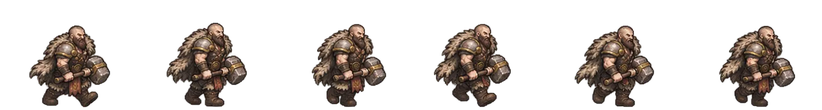
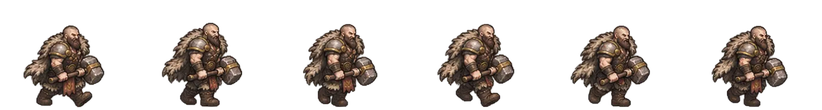
v0.6 : HUD en pièces d'interface, animation de Hrolf stabilisée
Cadre du héros, orbes PV/Rage, barre et cases, jauges, bannières,
panneaux et boutons tirés des planches d'interface (img/ui). Repos de
Hrolf sur une image fixe qui respire, marche calée sur la tête.

Claude-Session: https://claude.ai/code/session_01Qu7CnqzYV5d2juEQXEXr3W

diff --git a/index.html b/index.html
@@ -14,51 +14,52 @@
 html,body{margin:0;height:100%;background:#000;color:var(--ink);font:16px system-ui,sans-serif;overflow:hidden;user-select:none}
 canvas#c{position:fixed;inset:0;width:100%;height:100%;display:block;cursor:pointer}
 .k{font-family:'Killam',Georgia,serif;font-weight:700}
-.panel{background:color-mix(in srgb,var(--panel) 92%,transparent);border:1px solid var(--line-strong);border-radius:12px}
-.sec{font:600 12px system-ui;letter-spacing:2.5px;text-transform:uppercase;color:var(--muted)}
-/* Cadre du héros : portrait cerclé de ses PV, nom, classe, VIE, caracs, états */
-#frame{position:fixed;left:12px;top:12px;display:flex;gap:12px;padding:10px 14px 10px 10px;align-items:center}
-#pwrap{position:relative;width:86px;height:86px;flex:none;border-radius:50%;padding:5px;background:conic-gradient(#c0392b var(--pv,100%),#2a1512 0)}
-#pwrap::after{content:'';position:absolute;inset:0;border-radius:50%;box-shadow:inset 0 0 0 2px #0009,0 0 0 2px var(--mait)}
-#portrait{width:76px;height:76px;border-radius:50%;background:radial-gradient(#2b3a3e,#10171a);display:block}
-#pvtxt{position:absolute;left:50%;bottom:-8px;transform:translateX(-50%);font:800 11px system-ui;background:#2a1512;border:1px solid #c0392b;border-radius:8px;padding:0 6px;white-space:nowrap}
-#fname{font-size:22px;line-height:1}
-.cart{display:inline-block;font:700 10px system-ui;letter-spacing:2px;text-transform:uppercase;padding:2px 8px;border-radius:10px;background:#b0452e;color:#fff;margin:4px 0 6px}
-.pills{display:flex;gap:5px;flex-wrap:wrap;align-items:center}
-.pills+.pills{margin-top:5px}.pills:empty{display:none}
-.carac{display:inline-flex;flex-direction:column;align-items:center;min-width:38px;padding:2px 5px;border-radius:7px;background:var(--panel-2);border:1px solid var(--line)}
-.carac small{font:600 9px system-ui;letter-spacing:1.5px;color:var(--muted)}.carac b{font:700 16px 'Killam',Georgia,serif;line-height:1.1}
-.pill{display:inline-flex;align-items:center;gap:3px;font:700 12px system-ui;padding:1px 7px;border-radius:9px;background:var(--btn);border:1px solid var(--line)}
+.panel{border:18px solid transparent;border-image:url(img/ui/panneau.webp) 46 fill / 18px stretch;background:none}
+:root{--or:#f1d7a1}
+.sec{font:600 12px system-ui;letter-spacing:2.5px;text-transform:uppercase;color:var(--or)}
+.sec::after{content:'';display:block;height:9px;margin:2px 0 4px;background:url(img/ui/separateur.webp) center/auto 100% no-repeat}
+/* Cadre du héros : pièce « cadre_heros » (rond + plaque), caracs dessous */
+#frame{position:fixed;left:10px;top:8px;width:390px;height:133px;background:url(img/ui/cadre_heros.webp) 0 0/100% 100% no-repeat}
+#portrait{position:absolute;left:10px;top:20px;width:108px;height:108px;border-radius:50%}
+#fplaque{position:absolute;left:142px;top:26px;right:22px;bottom:20px;display:flex;flex-direction:column;justify-content:center;gap:2px}
+#fname{font-size:22px;line-height:1;color:var(--or);text-shadow:0 2px 3px #000}
+.cart{align-self:flex-start;font:700 10px/26px system-ui;letter-spacing:2px;text-transform:uppercase;padding:0 22px;height:28px;color:#fff;text-shadow:0 1px 2px #000;background:url(img/ui/banniere.webp) center/100% 100% no-repeat}
+#fvie{display:flex;gap:3px}#fvie img{width:18px;height:18px}
+#fsous{position:fixed;left:16px;top:144px}
+.pills{display:flex;gap:6px;flex-wrap:wrap;align-items:center}.pills+.pills{margin-top:6px}.pills:empty{display:none}
+.carac{position:relative;width:68px;height:51px;background:0 0/100% 100% no-repeat}
+.carac b{position:absolute;right:11px;bottom:7px;font:700 19px 'Killam',Georgia,serif;color:var(--or);text-shadow:0 2px 2px #000}
+.pill{display:inline-flex;align-items:center;gap:3px;font:700 12px system-ui;padding:2px 8px;border-radius:9px;background:#120d0acc;border:1px solid var(--line)}
 .pill img{width:16px;height:16px}
-.etat{border-color:var(--t);color:var(--t);background:color-mix(in srgb,var(--t) 15%,var(--panel))}
-.vie{width:15px;height:15px;opacity:.2;filter:grayscale(1)}.vie.on{opacity:1;filter:none}
-.bar{position:relative;height:16px;border-radius:8px;background:var(--track);border:1px solid var(--line);overflow:hidden;width:220px}
-.bar>i{position:absolute;inset:0 auto 0 0;background:linear-gradient(#d4735a,#a4442f);transition:width .2s}
-.bar>span{position:absolute;inset:0;text-align:center;font:700 11px/15px system-ui;text-shadow:0 1px 2px #000}
-/* Barre d'action : orbe de PV, cases, orbe de Rage */
-#bar{position:fixed;left:50%;bottom:10px;transform:translateX(-50%);display:flex;align-items:flex-end;gap:14px;padding:8px 12px;border-radius:16px}
-.orbe{position:relative;width:88px;height:88px;border-radius:50%;overflow:hidden;background:radial-gradient(circle at 50% 60%,#1a1210,#070505);box-shadow:0 0 0 3px #3a2c20,0 0 0 5px var(--mait),0 4px 12px #000a}
-.orbe>i{position:absolute;left:0;right:0;bottom:0;height:var(--f,100%);background:var(--g);transition:height .25s}
-.orbe::after{content:'';position:absolute;left:18%;top:8%;width:46%;height:28%;border-radius:50%;background:radial-gradient(#ffffff55,transparent 70%)}
-.orbe span{position:absolute;inset:0;display:grid;place-items:center;font:700 20px 'Killam',Georgia,serif;text-shadow:0 2px 3px #000,0 0 2px #000;z-index:1}
-.orbe small{position:absolute;left:0;right:0;bottom:12px;text-align:center;font:700 9px system-ui;letter-spacing:2px;text-transform:uppercase;z-index:1;text-shadow:0 1px 2px #000}
-#oPV{--g:linear-gradient(#e0533f,#7a1a12)}#oRage{--g:linear-gradient(#f08a3a,#8a2e10)}
-#centre{display:flex;flex-direction:column;align-items:center;gap:6px}
-#ronds{display:flex;gap:6px;align-items:flex-end}
-.sep{width:2px;height:44px;background:var(--line);margin:0 4px;align-self:center}
-.slot{position:relative;width:58px;height:58px;border-radius:8px;cursor:pointer;background:linear-gradient(#1b2629,#0d1417);border:2px solid color-mix(in srgb,var(--t) 70%,#000);box-shadow:inset 0 0 10px #000,0 2px 6px #000a;display:grid;place-items:center}
-.slot:hover{border-color:var(--t);box-shadow:inset 0 0 10px #000,0 0 10px color-mix(in srgb,var(--t) 60%,transparent)}
-.slot img{width:44px;height:44px;object-fit:contain;filter:drop-shadow(0 2px 2px #000)}
-.slot .h{position:absolute;top:2px;left:4px;font:800 11px system-ui;color:var(--ink);text-shadow:0 1px 2px #000}
-.slot .q{position:absolute;bottom:1px;right:4px;font:800 13px system-ui;text-shadow:0 1px 2px #000,0 0 2px #000}
-.slot .cd{position:absolute;inset:0;border-radius:6px;background:conic-gradient(#000c var(--p,0%),transparent 0)}
-.slot .s{position:absolute;inset:0;display:grid;place-items:center;font:800 16px system-ui;text-shadow:0 1px 3px #000}
-.slot.off img{filter:grayscale(1) brightness(.5)}.slot.off{cursor:default}
+.etat{border-color:var(--t);color:var(--t)}
+/* Barre d'action : orbes (cadre + verre vide + verre plein rogné), plaque, cases */
+#bar{position:fixed;left:50%;bottom:6px;transform:translateX(-50%);display:flex;align-items:flex-end}
+.orbe{position:relative;width:124px;height:130px;flex:none;z-index:1}
+.orbe>i{position:absolute;left:11.9%;top:12.9%;width:75%;height:71%;background:var(--o) 0 0/100% 100%}
+.orbe>i.v{background-image:url(img/ui/orbe_vide.webp)}
+.orbe>i.p{clip-path:inset(calc(100% - var(--f,100%)) 0 0 0);transition:clip-path .25s}
+.orbe::after{content:'';position:absolute;inset:0;background:url(img/ui/orbe_cadre.webp) 0 0/100% 100%}
+.orbe span{position:absolute;left:0;right:0;top:12.9%;height:71%;display:grid;place-items:center;font:700 24px 'Killam',Georgia,serif;text-shadow:0 2px 3px #000,0 0 3px #000;z-index:2}
+.orbe small{position:absolute;left:0;right:0;bottom:6%;text-align:center;font:800 9px system-ui;letter-spacing:2px;text-transform:uppercase;color:var(--or);z-index:2}
+#centre{position:relative;margin:0 -22px 10px;padding:16px 42px 12px;display:flex;flex-direction:column;align-items:center;gap:4px;background:url(img/ui/barre_fond.webp) 0 0/100% 100% no-repeat}
+#ronds{display:flex;gap:4px;align-items:center}
+.sep{width:14px}
+.slot{position:relative;width:62px;height:62px;cursor:pointer;display:grid;place-items:center}
+.slot::before{content:'';position:absolute;inset:11%;border-radius:4px;background:radial-gradient(#2a201a,#0b0807)}
+.slot::after{content:'';position:absolute;inset:0;background:url(img/ui/case_bronze.webp) 0 0/100% 100%;pointer-events:none}
+.slot.fer::after{background-image:url(img/ui/case_fer.webp)}
+.slot:hover::after,.slot.flash::after{background-image:url(img/ui/case_or.webp)}
+.slot img{position:relative;width:40px;height:40px;object-fit:contain;filter:drop-shadow(0 2px 2px #000)}
+.slot .h{position:absolute;top:-5px;left:-5px;width:22px;height:22px;display:grid;place-items:center;font:800 11px system-ui;color:var(--or);background:url(img/ui/touche.webp) 0 0/100% 100%;z-index:2}
+.slot .q{position:absolute;bottom:6px;right:8px;font:800 13px system-ui;text-shadow:0 1px 2px #000,0 0 2px #000;z-index:2}
+.slot .cd{position:absolute;inset:11%;border-radius:4px;background:conic-gradient(#000c var(--p,0%),transparent 0);z-index:1}
+.slot .s{position:absolute;inset:0;display:grid;place-items:center;font:800 17px system-ui;text-shadow:0 1px 3px #000;z-index:1}
+.slot.off img{filter:grayscale(1) brightness(.45)}.slot.off{cursor:default}
 .slot.flash{animation:eclat .5s}
-@keyframes eclat{40%{transform:scale(1.12);box-shadow:0 0 18px var(--t)}}
-#xp{position:relative;width:100%;min-width:330px;height:12px;border-radius:6px;background:var(--track);border:1px solid var(--line);overflow:hidden}
-#xp>i{display:block;height:100%;background:linear-gradient(90deg,var(--mait),#e2ae72);width:0;transition:width .3s}
-#xpt{position:absolute;inset:0;text-align:center;font:700 9px/11px system-ui;letter-spacing:1px;text-shadow:0 1px 2px #000}
+@keyframes eclat{40%{transform:scale(1.1)}}
+#xp{width:330px;height:26px}
+#xpt{font:800 10px system-ui!important;letter-spacing:1px}
+#bTal .or{width:16px;height:16px;vertical-align:-3px;margin-left:4px}
 /* Ronds de talent (fenêtre des talents) */
 .rond{position:relative;width:62px;text-align:center;cursor:pointer}
 .rond .o{position:relative;width:56px;height:56px;margin:auto;border-radius:12px;border:4px solid var(--t);background:color-mix(in srgb,var(--t) 22%,#e9e3d5);display:grid;place-items:center;overflow:hidden;box-shadow:0 2px 6px #0008}
@@ -66,9 +67,9 @@ canvas#c{position:fixed;inset:0;width:100%;height:100%;display:block;cursor:poin
 .rond .o b{font-size:24px;color:var(--t)}
 .rond .n{font:600 11px system-ui;margin-top:3px;color:var(--ink);white-space:nowrap}
 /* Boutons */
-.btn{font:600 14px system-ui;background:var(--btn);color:var(--ink);border:1px solid var(--line-strong);border-radius:8px;padding:6px 12px;cursor:pointer}
-.btn:hover{background:var(--hover)}.btn.on{border-color:var(--accent);color:var(--accent)}
-.btn.main{background:var(--accent);color:var(--on-accent);border-color:var(--accent)}
+.btn{font:600 14px system-ui;color:var(--or);background:none;border:10px solid transparent;border-image:url(img/ui/bouton.webp) 36 fill / 10px stretch;padding:0 6px;min-height:36px;cursor:pointer;text-shadow:0 1px 2px #000}
+.btn:hover{border-image-source:url(img/ui/bouton2.webp);color:#fff}.btn.on{border-image-source:url(img/ui/bouton3.webp);color:#ffd77a}
+.btn.main{border-image-source:url(img/ui/bouton3.webp);color:#ffd77a}
 .btn.pulse{animation:pulse 1.2s infinite}@keyframes pulse{50%{box-shadow:0 0 12px var(--mait)}}
 #top{position:fixed;right:12px;top:12px;display:flex;gap:6px}
 /* Journal */
@@ -78,12 +79,17 @@ canvas#c{position:fixed;inset:0;width:100%;height:100%;display:block;cursor:poin
 .de.dark{color:#f4f6f2}.de.x{opacity:.3;text-decoration:line-through}.de.b{opacity:.45}.de.p{outline:1px solid #ffd34a}
 .hro{color:var(--green);font-weight:700}.adv{color:#e2565f;font-weight:700}
 /* Bulle (infobulle d'adversaire / de talent) */
-#tip{position:fixed;pointer-events:none;max-width:280px;padding:8px 10px;font-size:13px;display:none;z-index:9}
+#tip{position:fixed;pointer-events:none;max-width:300px;padding:2px 4px;font-size:13px;display:none;z-index:9}
 #tip h4{margin:0 0 4px;font:700 16px 'Killam',Georgia,serif;color:var(--t,var(--ink))}
 #tip p{margin:3px 0}
 /* Barre de boss */
-#boss{position:fixed;top:14px;left:50%;transform:translateX(-50%);width:420px;text-align:center;display:none}
-#boss .bar{width:100%;height:14px}
+#boss{position:fixed;top:10px;left:50%;transform:translateX(-50%);width:440px;text-align:center;display:none}
+#bossn{height:40px;line-height:34px;background:url(img/ui/banniere.webp) center/100% 100% no-repeat;font-size:16px;color:#fff;text-shadow:0 1px 3px #000}
+.jauge{position:relative;height:36px;background:url(img/ui/jauge_cadre.webp) 0 0/100% 100%}
+.jauge::before,.jauge>i{content:'';position:absolute;left:11.3%;top:25.6%;height:46.4%;width:77.4%;background:url(img/ui/jauge_fond.webp) 0 0/100% 100%}
+.jauge>i{width:calc(77.4% * var(--f,1));background-image:url(img/ui/jauge_rouge.webp);transition:width .25s}
+.jauge.or>i{background-image:url(img/ui/jauge_or.webp)}
+.jauge>span{position:absolute;inset:0;display:grid;place-items:center;font:800 11px system-ui;text-shadow:0 1px 2px #000,0 0 2px #000}
 /* Fenêtres */
 .dlg{position:fixed;inset:0;background:#0008;display:none;place-items:center;z-index:10}
 .dlg.on{display:grid}
@@ -103,36 +109,32 @@ canvas#c{position:fixed;inset:0;width:100%;height:100%;display:block;cursor:poin
 #edit .row,.reg{display:flex;gap:6px;flex-wrap:wrap;margin:6px 0;align-items:center}
 .reg{font:600 12px system-ui;color:var(--muted);justify-content:space-between}.reg input{width:100%}
 #edMsg{font-size:12px;color:var(--accent);min-height:1em;margin:4px 0}
-body.edition #bar,body.edition #frame,body.edition #journal{display:none}
+body.edition #bar,body.edition #frame,body.edition #fsous,body.edition #journal{display:none}
 #mj .row{display:flex;gap:6px;flex-wrap:wrap;margin:6px 0}
 #fin{z-index:11}
 #fin .win{text-align:center;width:420px}
-@media (max-width:900px){.orbe{width:64px;height:64px}.slot{width:46px;height:46px}.slot img{width:34px;height:34px}#xp{min-width:200px}#pwrap{width:64px;height:64px}#portrait{width:54px;height:54px}}
+@media (max-width:900px){#bar{transform:translateX(-50%) scale(.72);transform-origin:bottom center}#frame,#fsous{transform:scale(.75);transform-origin:top left}#fsous{top:110px}}
 @media (prefers-reduced-motion:reduce){.slot.flash,.btn.pulse{animation:none}}
 </style>
 </head>
 <body>
 <canvas id="c"></canvas>
-<div id="frame" class="panel">
- <div id="pwrap"><canvas id="portrait" width="152" height="152"></canvas><span id="pvtxt"></span></div>
- <div>
-  <div id="fname" class="k">Hrolf</div>
-  <div class="cart" id="fcart">Destructeur · palier I</div>
-  <div class="pills" id="fstats"></div>
-  <div class="pills" id="fetats"></div>
- </div>
+<div id="frame">
+ <canvas id="portrait" width="216" height="216"></canvas>
+ <div id="fplaque"><div id="fname" class="k">Hrolf</div><div class="cart" id="fcart">Destructeur · palier I</div><div id="fvie"></div></div>
 </div>
-<div id="boss" class="panel" style="padding:6px 10px"><div class="k" id="bossn"></div><div class="bar"><i></i><span></span></div></div>
+<div id="fsous"><div class="pills" id="fstats"></div><div class="pills" id="fetats"></div></div>
+<div id="boss"><div class="k" id="bossn"></div><div class="jauge"><i></i><span></span></div></div>
 <div id="top">
  <button class="btn" id="bTal">Talents (T)</button>
  <button class="btn" id="bMJ">MJ (M)</button>
  <button class="btn" id="bPause">Pause (Espace)</button>
 </div>
 <div id="journal" class="panel"></div>
-<div id="bar" class="panel">
- <div class="orbe" id="oPV"><i></i><span></span><small>PV</small></div>
- <div id="centre"><div id="ronds"></div><div id="xp"><i></i><span id="xpt"></span></div></div>
- <div class="orbe" id="oRage"><i></i><span></span><small>Rage</small></div>
+<div id="bar">
+ <div class="orbe" id="oPV" style="--o:url(img/ui/orbe_pv.webp)"><i class="v"></i><i class="p"></i><span></span><small>PV</small></div>
+ <div id="centre"><div id="ronds"></div><div id="xp" class="jauge or"><i></i><span id="xpt"></span></div></div>
+ <div class="orbe" id="oRage" style="--o:url(img/ui/orbe_rage.webp)"><i class="v"></i><i class="p"></i><span></span><small>Rage</small></div>
 </div>
 <div id="mj" class="panel">
  <div class="sec">Meneur de jeu</div>
@@ -158,7 +160,7 @@ body.edition #bar,body.edition #frame,body.edition #journal{display:none}
 <div class="dlg" id="fin"><div class="win panel"><h2 style="justify-content:center" id="finT"></h2><p id="finP"></p><button class="btn main" id="bRe">Recommencer</button></div></div>
 <script>
 'use strict';
-const VERSION='0.5';
+const VERSION='0.6';
 document.title='Amertüme ISO v'+VERSION;
 
 /* ================= Règles d'Amertüme (moteur d'Amertüme Online, adapté au temps réel) =================
@@ -270,6 +272,7 @@ function ligneLibre(x0,y0,x1,y1){const n=Math.ceil(Math.hypot(x1-x0,y1-y0)/8);fo
 const IMG={},img=s=>{if(!IMG[s]){const i=new Image();i.src=s;IMG[s]=i}return IMG[s]},ok=i=>i&&i.complete&&i.naturalWidth;
 // Hrolf : planche 6 × 7 découpée en bandes de 6 images ; découpée par tools/decoupe_hrolf.py : images alignées sur les pieds, toutes tournées vers la droite.
 const HANIM={n:6,pieds:.968,poses:['idle','walk','atk','furie','cri','sol','mort']};
+['ellipse_sol','fine_cadre_fer','fine_rouge'].forEach(n=>img('img/ui/'+n+'.webp'));
 img(CARTE.fond);for(const p of HANIM.poses)img('img/u/hrolf_'+p+'.webp');
 for(const s in ANIM)for(const p of ANIM[s].poses)img('img/m/'+s+'_'+p+'.webp');
 for(const s of Object.keys(MS).filter(s=>!ANIM[s]))for(const p of ['w1','w2','atk','dead']){img('img/m/'+s+'_'+p+'.webp');if(p!=='dead')img('img/m/'+s+'_'+p+'_rim.webp')}
@@ -367,7 +370,7 @@ function step(dt){S.t+=dt;
  if(!hero.coma&&hero.auSol<=0){
   if(hero.cible&&hero.cible.pv<=0)hero.cible=null;
   if(hero.cible){if(contact(hero,hero.cible))hero.path=[];else if(!hero.path.length||S.t>(hero.repath||0)){hero.path=chemin(hero.x,hero.y,hero.cible.x,hero.cible.y);hero.repath=S.t+.3}}
-  if(hero.path.length){const p=hero.path[0],dx=p.x-hero.x,dy=p.y-hero.y,d=Math.hypot(dx,dy),sp=78*dt;
+  if(hero.path.length){const p=hero.path[0],dx=p.x-hero.x,dy=p.y-hero.y,d=Math.hypot(dx,dy),sp=64*dt;
    if(Math.abs(dx)>1)hero.face=dx>0?1:-1;if(d<=sp){hero.x=p.x;hero.y=p.y;hero.path.shift()}else{hero.x+=dx/d*sp;hero.y+=dy/d*sp}hero.walk+=Math.min(d,sp)}
   else{hero.walk=0;if(S.t>=hero.prochain){const c=hero.cible&&contact(hero,hero.cible)?hero.cible:null;if(c||vivants().some(m=>contact(hero,m)&&m.aggro))attaqueHeros(c)}}}
  // Adversaires
@@ -419,21 +422,22 @@ function spark(x,y,c,n){for(let k=0;k<n;k++){const a=Math.random()*6.28,s=60+Mat
 function ombre(x,y,rx,ry,a){g.save();g.translate(x,y);g.scale(1,ry/rx);const gr=g.createRadialGradient(0,0,0,0,0,rx);gr.addColorStop(0,`rgba(0,0,0,${a})`);gr.addColorStop(1,'rgba(0,0,0,0)');g.fillStyle=gr;g.beginPath();g.arc(0,0,rx,0,7);g.fill();g.restore()}
 function anneau(x,y,rx,c,w){g.strokeStyle=c;g.lineWidth=w||2;g.beginPath();g.ellipse(x,y,rx,rx*.45,0,0,7);g.stroke()}
 function anime(pose,dur){hero.anim={pose,t:S.t,dur}}
-function drawHero(t){const u=hero;ombre(u.x,u.y+1,13,5,.45);anneau(u.x,u.y,15,`rgba(255,210,122,${.55+Math.sin(t*3)*.25})`);
+function drawHero(t){const u=hero;ombre(u.x,u.y+1,13,5,.45);const el=IMG['img/ui/ellipse_sol.webp'];if(ok(el)){g.globalAlpha=.75+Math.sin(t*3)*.2;g.drawImage(el,u.x-17,u.y-7,34,14.4);g.globalAlpha=1}
  if(u.etats.Rage)anneau(u.x,u.y,19,'rgba(212,85,42,.75)',1.5+Math.min(4,u.etats.Rage*.3));
  // Une animation jouée (attaque, Frappe Furieuse, Cri, au sol, mort) passe avant la marche et le repos ; la mort et le Coma restent couchés.
- const a=u.anim,k=a?(S.t-a.t)/a.dur:1;let pose,f;
+ const a=u.anim,k=a?(S.t-a.t)/a.dur:1;let pose,f,souffle=1;
  if(u.mort){pose='mort';f=Math.floor(Math.min(.99,k)*6)}else if(u.coma){pose='sol';f=3}
- else if(a&&k<1){pose=a.pose;f=Math.floor(k*6)}else if(u.walk>0){pose='walk';f=Math.floor(u.walk/6.5)%6}else{pose='idle';f=Math.floor(t*6)%6}
+ else if(a&&k<1){pose=a.pose;f=Math.floor(k*6)}else if(u.walk>0){pose='walk';f=Math.floor(u.walk/4.8)%6}else{pose='idle';f=0;souffle=1+Math.sin(t*2.4)*.012}
  const im=IMG['img/u/hrolf_'+pose+'.webp'];if(!ok(im))return;const fw=im.naturalWidth/6,fh=im.naturalHeight,w=fw/2,h=fh/2;
- g.save();g.translate(u.x,u.y);g.scale(u.face,1);if(u.coma&&!u.mort)g.filter='grayscale(.6) brightness(.8)';g.drawImage(im,f*fw,0,fw,fh,-w/2,-h*HANIM.pieds,w,h);g.restore()}
+ g.save();g.translate(u.x,u.y);g.scale(u.face,souffle);if(u.coma&&!u.mort)g.filter='grayscale(.6) brightness(.8)';g.drawImage(im,f*fw,0,fw,fh,-w/2,-h*HANIM.pieds,w,h);g.restore()}
 function drawMon(m,t,hov){const sp=m.d.spr,pose=m.atk>0?'atk':m.walk>0&&Math.floor(m.walk/2.4)%2?'w2':'w1',rim=IMG['img/m/'+sp+'_'+pose+'_rim.webp'],im0=IMG['img/m/'+sp+'_'+pose+'.webp'],useR=ok(rim),im=useR?rim:im0;
  ombre(m.x,m.y+1,m.w*.34+3,m.w*.11+2.5,.45);if(hov||m===hero.cible)anneau(m.x,m.y,m.w*.42+6,'#e2565f',2);else if(m.d.boss)anneau(m.x,m.y,m.w*.42+6,'rgba(226,86,95,.45)',2);
  if(ANIM[sp])return drawAnim(m,t,hov);
  if(!ok(im))return;const pd=useR?2:0,w=im.naturalWidth/2-pd*2,h=im.naturalHeight/2-pd*2,iw=MS[sp][0],bob=pose==='atk'?0:Math.abs(Math.sin(m.walk*1.3))*m.h*.03;
  g.save();g.translate(m.x,m.y);g.scale(m.face,1);if(m.etats.Feu)g.filter='sepia(.8) saturate(2.6) brightness(1.1)';else if(hov)g.filter='brightness(1.25)';
  g.drawImage(im,(pose==='atk'?-iw/2:-w/2)-pd,-h+2-bob-pd,w+pd*2,h+pd*2);g.restore();barreVie(m,hov)}
-function barreVie(m,hov){if(m.pv<m.d.pv||hov||m.aggro){const bw=Math.max(26,m.w*.6),y=m.y-m.h-8;g.fillStyle='#000a';g.fillRect(m.x-bw/2-1,y-1,bw+2,5);g.fillStyle='#c0392b';g.fillRect(m.x-bw/2,y,bw*Math.max(0,m.pv/m.d.pv),3);
+function barreVie(m,hov){if(m.pv<m.d.pv||hov||m.aggro){const bw=Math.max(30,m.w*.65),bh=bw*48/221,y=m.y-m.h-8,cf=IMG['img/ui/fine_cadre_fer.webp'],fr=IMG['img/ui/fine_rouge.webp'];
+  if(ok(cf)&&ok(fr)){const x0=m.x-bw/2;g.fillStyle='#000c';g.fillRect(x0+bw*.068,y-bh/2+bh*.31,bw*.86,bh*.36);g.drawImage(fr,x0+bw*.068,y-bh/2+bh*.31,bw*.86*Math.max(0,m.pv/m.d.pv),bh*.36);g.drawImage(cf,x0,y-bh/2,bw,bh)}
   let ex=m.x-bw/2;for(const [e,n] of Object.entries(m.etats)){if(!n)continue;const ic=ETAT_IC[e]?img(ETAT_IC[e]):null;if(ok(ic))g.drawImage(ic,ex,y-12,10,10);ex+=11}}}
 function frameAnim(sp,pose,f,x,y,face,filt,rot){const A=ANIM[sp],im=IMG['img/m/'+sp+'_'+pose+'.webp'];if(!ok(im))return;const fw=im.naturalWidth/A.n,fh=im.naturalHeight,w=fw/2,h=fh/2;
  g.save();g.translate(x,y);if(rot)g.rotate(rot);g.scale(face,1);if(filt)g.filter=filt;g.drawImage(im,Math.min(A.n-1,f)*fw,0,fw,fh,-w/2,-h*A.pieds,w,h);g.restore()}
@@ -464,7 +468,7 @@ const dispo=()=>marques()-hero.depense;
 function rondHtml(k,o){o=o||{};const T=TAL[k],ty=tType(k),c='var(--'+ty+')';
  return `<div class="rond ${o.cls||''}" id="${o.id||''}" data-tal="${k}" style="--t:${c}"><div class="o">${T.ic?`<img src="img/talents/${T.ic}.png" alt="">`:`<b>${GLYPH[ty]}</b>`}${o.cd?'<div class="cd"></div>':''}</div>${o.h?`<span class="h">${o.h}</span>`:''}${o.q!==undefined?`<span class="q">${o.q}</span>`:''}<div class="n">${T.nom}</div></div>`}
 // Une case de la barre d'action : icône, touche, compteur, recharge.
-const slot=(id,k,t,icone,touche,q,cd)=>`<div class="slot" id="${id}" data-k="${k}" style="--t:var(--${t})"><img src="${icone}" alt="">${cd?'<div class="cd"></div><div class="s"></div>':''}${touche?`<span class="h">${touche}</span>`:''}${q!==undefined?`<span class="q">${q}</span>`:''}</div>`;
+const slot=(id,k,t,icone,touche,q,cd)=>`<div class="slot${t==='ame'||t==='green'?' fer':''}" id="${id}" data-k="${k}" style="--t:var(--${t})"><img src="${icone}" alt="">${cd?'<div class="cd"></div><div class="s"></div>':''}${touche?`<span class="h">${touche}</span>`:''}${q!==undefined?`<span class="q">${q}</span>`:''}</div>`;
 function majRonds(){let h=slot('r_auto','auto','act','img/i/hache.png','',undefined,1);
  if(has('frappe'))h+=slot('r_frappe','frappe','act','img/talents/talent_attaque.png','1',undefined,1);
  if(has('cri'))h+=slot('r_cri','cri','bonus','img/talents/talent_provocation.png','2');
@@ -474,21 +478,20 @@ function flashRond(id){const e=$(id);if(!e)return;e.classList.remove('flash');vo
 let sig='';
 function majTout(){const s=[...hero.talents].join()+hero.potions+'|'+hero.reposCourts+hero.vie;if(s!==sig){sig=s;majRonds()}
  const pm=pvMax(),pv=Math.max(0,hero.pv),fr=pv/pm*100,rage=hero.etats.Rage||0;
- $('pwrap').style.setProperty('--pv',fr+'%');$('pvtxt').textContent=pv+' / '+pm;
- $('oPV').style.setProperty('--f',fr+'%');$('oPV').querySelector('span').textContent=pv;
+ $('oPV').style.setProperty('--f',fr+'%');$('oPV').querySelector('span').textContent=pv;$('oPV').title=pv+' / '+pm+' PV';
  $('oRage').style.setProperty('--f',Math.min(100,rage*10)+'%');$('oRage').querySelector('span').textContent=rage;
- let v='';for(let k=0;k<hero.vieMax;k++)v+=`<img class="vie${k<hero.vie?' on':''}" src="img/etats/vie.png" alt="VIE">`;
- const ca=(n,x,t)=>`<span class="carac" title="${t}"><small>${n}</small><b>${x}</b></span>`;
- $('fstats').innerHTML=ca('DEF',hero.auSol>0?0:hero.def,'Défense')+ca('DÉG','+'+bonusDeg(),'Bonus de Dégâts')+ca('END',hero.endu,'Endurance')+ca('VIE',`<span style="display:flex;gap:1px">${v}</span>`,'VIE');
+ let v='';for(let k=0;k<hero.vieMax;k++)v+=`<img src="img/ui/pastille_${k<hero.vie?'verte':'vide'}.webp" alt="">`;$('fvie').innerHTML=v;$('fvie').title='VIE '+hero.vie+' / '+hero.vieMax;
+ const ca=(n,x,t)=>`<span class="carac" title="${t}" style="background-image:url(img/ui/carac_${n}.webp)"><b>${x}</b></span>`;
+ $('fstats').innerHTML=ca('def',hero.auSol>0?0:hero.def,'DEF')+ca('deg','+'+bonusDeg(),'Bonus de Dégâts')+ca('force',hero.endu,'Endurance')+ca('vie',hero.vie,'VIE');
  $('fetats').innerHTML=Object.entries(hero.etats).filter(([,n])=>n).map(([e,n])=>`<span class="pill etat" style="--t:${ETATS[e]}">${ETAT_IC[e]?`<img src="${ETAT_IC[e]}" alt="">`:''}${e} ${n}</span>`).join('')+(hero.enrag?`<span class="pill etat" style="--t:${ETATS.Rage}">Enragement +${hero.enrag}</span>`:'')+(hero.coma?`<span class="pill etat" style="--t:${ETATS.Coma}">Coma</span>`:'');
- const x=hero.xp%100;$('xp').firstElementChild.style.width=x+'%';$('xpt').textContent='XP '+hero.xp+' / '+(marques()+1)*100+(dispo()>0?' · '+dispo()+' Marque'+(dispo()>1?'s':'')+' à dépenser':'');
- $('bTal').classList.toggle('pulse',dispo()>0);$('bTal').textContent='Talents (T)'+(dispo()>0?' · '+dispo():'');
+ const x=hero.xp%100;$('xp').style.setProperty('--f',x/100);$('xpt').textContent='XP '+hero.xp+' / '+(marques()+1)*100+(dispo()>0?' · '+dispo()+' Marque'+(dispo()>1?'s':'')+' à dépenser':'');
+ $('bTal').classList.toggle('pulse',dispo()>0);$('bTal').innerHTML='Talents (T)'+(dispo()>0?'<img class="or" src="img/ui/pastille_or.webp" alt=""> '+dispo():'');
  $('r_repos')&&$('r_repos').classList.toggle('off',S.combat||!hero.reposOk||hero.reposCourts>=hero.vie||hero.coma);
  $('r_potion')&&$('r_potion').classList.toggle('off',!hero.potions||hero.coma);
  $('r_cri')&&$('r_cri').classList.toggle('off',!!hero.criUtilise||hero.coma)}
 function majCd(){const a=$('r_auto');if(a){const r=Math.max(0,hero.prochain-S.t)/(hero.arme.cadence||CADENCE_2M);a.querySelector('.cd').style.setProperty('--p',Math.min(1,r)*100+'%')}
  const f=$('r_frappe');if(f){const t=Math.max(0,hero.cd.frappe-S.t),r=t/TOUR;f.querySelector('.cd').style.setProperty('--p',r*100+'%');f.querySelector('.s').textContent=t>0?Math.ceil(t):'';f.classList.toggle('off',r>0||hero.coma)}
- const b=vivants().find(m=>m.d.boss&&m.aggro);$('boss').style.display=b?'block':'none';if(b){$('bossn').textContent=b.d.nom;$('boss').querySelector('i').style.width=b.pv/b.d.pv*100+'%';$('boss').querySelector('span').textContent=b.pv+' / '+b.d.pv}}
+ const b=vivants().find(m=>m.d.boss&&m.aggro);$('boss').style.display=b?'block':'none';if(b){$('bossn').textContent=b.d.nom;$('boss').querySelector('.jauge').style.setProperty('--f',b.pv/b.d.pv);$('boss').querySelector('span').textContent=b.pv+' / '+b.d.pv}}
 // Arbre de talents : 1 Marque chacun ; une amélioration exige son talent de base.
 function majArbre(){$('marques').textContent='Marques à dépenser : '+dispo()+' · dépensées : '+hero.depense;
  const bases=Object.keys(TAL).filter(k=>!TAL[k].de);

diff --git a/tools/decoupe_hrolf.py b/tools/decoupe_hrolf.py
@@ -26,11 +26,15 @@ for (r,c),pts in cells.items():
   for u,v in pts: fp[u-x0,v-y0]=S[u,v]
   if c in MIROIR.get(r,()): f=ImageOps.mirror(f)
   frames[(r,c)]=f
-def ancre(f):
+# Ancre horizontale : les pieds pour les gestes sur place ; la tête pour la marche (la planche fait tanguer
+# le corps de ±5 px d'une image à l'autre : calé sur les pieds, il flotte). Ancre verticale : le pied le plus bas.
+def ancre(f,tete):
   a=f.load();w,h=f.size;ok=[(x,y) for y in range(h) for x in range(w) if a[x,y][3]>60 and not gris(a[x,y])]
-  bas=max(y for x,y in ok);bande=[x for x,y in ok if y>=bas-h*.12 and y>=h*.5] or [x for x,y in ok]
+  bas=max(y for x,y in ok);haut=min(y for x,y in ok)
+  if tete: bande=[x for x,y in ok if y<=haut+(bas-haut)*.16]
+  else: bande=[x for x,y in ok if y>=bas-h*.12 and y>=h*.5] or [x for x,y in ok]
   return sum(bande)/len(bande),bas
-A={k:ancre(f) for k,f in frames.items()}
+A={k:ancre(f,k[0]==1) for k,f in frames.items()}
 L=max(ax for (ax,ay) in A.values());Rt=max(f.size[0]-A[k][0] for k,f in frames.items());Hh=max(A[k][1] for k in frames);Bb=max(f.size[1]-A[k][1] for k,f in frames.items())
 half=int(max(L,Rt))+2;FW,FH=2*half,int(Hh+Bb)+4;base=int(Hh)+1
 ow,oh=round(FW*K),round(FH*K);print('image',ow,oh,'pieds',round(base/FH,3))

diff --git a/tools/decoupe_ui.py b/tools/decoupe_ui.py
@@ -1,0 +1,21 @@
+# Découpe des planches d'interface : chaque élément (composante connexe) recadré, listé par position.
+import sys, collections
+from PIL import Image, ImageFilter
+def elements(path):
+  im=Image.open(path).convert('RGBA');W,H=im.size
+  m=im.getchannel('A').point(lambda v:255 if v>24 else 0).filter(ImageFilter.MaxFilter(5));px=m.load();vu=set();out=[]
+  for y in range(0,H,2):
+    for x in range(0,W,2):
+      if px[x,y] and (x,y) not in vu:
+        q=collections.deque([(x,y)]);vu.add((x,y));x0=x1=x;y0=y1=y;n=0
+        while q:
+          u,v=q.popleft();n+=1;x0=min(x0,u);x1=max(x1,u);y0=min(y0,v);y1=max(y1,v)
+          for a,b in ((u+1,v),(u-1,v),(u,v+1),(u,v-1)):
+            if 0<=a<W and 0<=b<H and px[a,b] and (a,b) not in vu: vu.add((a,b));q.append((a,b))
+        if n>400: out.append((y0,x0,x1,y1))
+  out.sort(key=lambda b:(round(b[0]/60),b[1]))
+  return im,[(x0,y0,x1+1,y1+1) for y0,x0,x1,y1 in out]
+if __name__=='__main__':
+  for p in sys.argv[1:]:
+    im,bs=elements(p);print(p,len(bs))
+    for i,b in enumerate(bs):print(' ',i,b,(b[2]-b[0],b[3]-b[1]),'centre alpha',im.getpixel(((b[0]+b[2])//2,(b[1]+b[3])//2))[3])

diff --git a/CLAUDE.md b/CLAUDE.md
@@ -49,6 +49,8 @@ Fusion d'**Amertüme Online** (système de règles) et des **Nuits de Lamuline /
 
 - **Hrolf** (`HANIM`, `drawHero`, `anime()`) : planche 6 × 7 de Valentin → `img/u/hrolf_{idle,walk,atk,furie,cri,sol,mort}.webp` ; il regarde à GAUCHE sur la planche (dessin en `scale(-face)`). Au sol = ligne « sol » ; Coma = image 3 de « sol » ; mort = ligne « mort » puis écran de fin.
 - **Interface** : cadre du héros (portrait cerclé de ses PV, caracs, VIE, états), barre d'action avec orbes PV / Rage et cases carrées (`slot()`). Journal masqué (demande de Valentin) mais `jlog()` tourne toujours.
+- **Pièces d'interface** (`img/ui/`, découpées des planches de Valentin par `tools/decoupe_ui.py`) : cadre_heros, orbe_cadre/vide/pv/rage (verre plein rogné par `clip-path` selon `--f`), barre_fond, case_bronze/or/fer (cases), touche, jauge_cadre/fond/rouge/or (XP, boss), banniere (classe, boss), panneau et bouton (`border-image` 9 tranches sur `.panel` et `.btn`), carac_def/deg/force/vie, pastille_verte/vide (VIE) et or (Marques), separateur (`.sec`), ellipse_sol (anneau du héros), fine_cadre_fer + fine_rouge (vie des adversaires). Pas encore utilisées : anneau, plaque_titre, cadre_vide, rond_bouton, case_bronze2, bouton_fer, pastille_mi, fine_cadre, fine_orange, fine_cadre et jauge_or alternatives.
+- **Animation de Hrolf** : repos = image 0 fixe qui respire (la ligne de repos de la planche tremble) ; marche calée sur la tête, 4,8 px de sol par image, vitesse 64 px/s.
 - **Caméra** : zoom minimal `zMin()` = la carte couvre tout l'écran, jamais de noir autour.
 - **Patrouilles** : au calme, les adversaires font quelques pas autour de leur camp (`m.pat`).
 - **Éditeur de carte** (MJ → « Éditer la carte ») : fond importé (PNG/JPEG/WebP, sa taille devient celle de la carte), sol / mur au pinceau sur la grille iso, départ, camps (palette du MJ), gomme ; clic droit + glisser pour déplacer la vue. `CARTE` = {nom, fond, w, h, walk, depart, camps} ; sauvée en localStorage (`amertume-iso-carte`) ou exportée/importée en JSON, toujours passée par `valideCarte()`.
